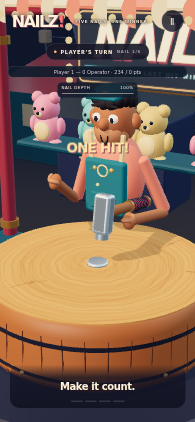
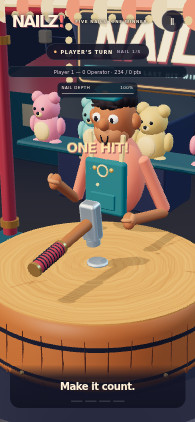
Face hammer handle toward human players during their turns

Changed region(s): [[0.1231, 0.4313, 0.7692, 0.6777], [0.3077, 0.5237, 0.8615, 0.7393]]

diff --git a/tests/hammer.test.ts b/tests/hammer.test.ts
@@ -12,25 +12,27 @@ test('the end of the hammer head contacts the nail with a transverse handle', ()
  const handle = model.root.getObjectByName('handle') as THREE.Mesh;
  face.geometry.computeBoundingBox();
  const faceEnd = new THREE.Vector3(0, face.geometry.boundingBox!.min.y, 0);
- for(const actor of ['p1', 'p2'] as const) for(const depth of [0, .4, .91]) {
+ for(const actor of ['p1', 'p2'] as const) for(const isHuman of [true,false]) for(const depth of [0, .4, .91]) {
   const contact = new THREE.Vector3(.08, 1.742 - depth, -.025);
   const motion = hammerMotion({...new Duel(11).snapshot, actor, phase:'SWING', elapsed:DUEL_TIMING.contact});
-  poseHammer(model.root, contact, motion.lift, motion.angle); model.root.updateMatrixWorld(true);
+  poseHammer(model.root, contact, motion.lift, motion.angle, isHuman); model.root.updateMatrixWorld(true);
   // Geometry vertices use Float32 storage, unlike the double-precision pose math.
   assert.ok(face.localToWorld(faceEnd.clone()).distanceTo(contact) < 1e-7, 'actual mesh end must land on the sampled point');
   const down = new THREE.Vector3(0,-1,0).transformDirection(face.matrixWorld);
   assert.ok(down.distanceTo(new THREE.Vector3(0,-1,0)) < 1e-10, 'striking end must face down');
   const handleAxis = new THREE.Vector3(0,1,0).transformDirection(handle.matrixWorld);
   assert.ok(Math.abs(handleAxis.dot(down)) < 1e-10, 'handle must lie across the head, never point into the nail');
-  assert.ok(handleAxis.z < -.99, 'handle points back toward the wielder');
+  assert.ok(isHuman ? handleAxis.z > .99 : handleAxis.z < -.99, 'handle points toward the human/front or operator/back, independent of player number');
   const handAxis = new THREE.Vector3(0,1,0).applyQuaternion(HAMMER_GRIP_ROTATION).applyQuaternion(model.root.quaternion);
   assert.ok(handAxis.distanceTo(handleAxis) < 1e-10, 'gripping hand follows the handle axis');
   assert.ok(model.root.localToWorld(HAMMER_GRIP.clone()).distanceTo(contact) > .7);
  }
- for(let i=0; i<=100; i++) {
-  const motion = hammerMotion({...new Duel(11).snapshot, phase:'SWING', elapsed:DUEL_TIMING.contact*i/100});
-  poseHammer(model.root, new THREE.Vector3(0,1,0), motion.lift, motion.angle); model.root.updateMatrixWorld(true);
+ for(const isHuman of [true,false]) for(const phase of ['READY_TO_SWING','SWING','IMPACT_RESOLUTION'] as const) for(let i=0; i<=100; i++) {
+  const motion = hammerMotion({...new Duel(11).snapshot, phase, elapsed:(phase==='SWING'?DUEL_TIMING.contact:.5)*i/100});
+  poseHammer(model.root, new THREE.Vector3(0,1,0), motion.lift, motion.angle, isHuman); model.root.updateMatrixWorld(true);
   assert.ok(face.localToWorld(faceEnd.clone()).y >= 1-1e-7, 'backswing must keep the face above contact');
+  const handleAxis = new THREE.Vector3(0,1,0).transformDirection(handle.matrixWorld);
+  assert.ok(isHuman ? handleAxis.z > 0 : handleAxis.z < 0, `${phase}: handle keeps facing the active wielder throughout the swing`);
  }
  model.dispose(); material.dispose();
 });

diff --git a/src/dev/animationFixtures.ts b/src/dev/animationFixtures.ts
@@ -1,6 +1,6 @@
 import {Duel,type DuelSnapshot} from '../game/duel.ts';
 import {applyStrike,createNail,resolveStrike} from '../game/strike.ts';
-export const ANIMATION_CASES=['Idle','Setup','Aim','Ready','Swing','Contact','Human contact','Normal rebound','Glancing rebound','Straighten','Near flush','One hit','Losing','Confident','Host celebration'] as const;
+export const ANIMATION_CASES=['Idle','Setup','Aim','Ready','Swing','Contact','Human ready','Human swing','Human contact','Human rebound','Local P2 contact','Normal rebound','Glancing rebound','Straighten','Near flush','One hit','Losing','Confident','Host celebration'] as const;
 export function animationFixture(name:string):DuelSnapshot{
  const base=new Duel(12,{firstStarter:'p2'}).snapshot;
  const fresh=createNail();
@@ -13,7 +13,8 @@ export function animationFixture(name:string):DuelSnapshot{
  if(name==='Setup')return {...base,phase:'NAIL_SETUP',elapsed:.2,isHuman:true};
  if(name==='Aim')return {...base,phase:'TARGET_Y',elapsed:.35};
  if(name==='Ready')return {...common,phase:'READY_TO_SWING',nail:before,elapsed:.4,appliedActionId:0};
- if(name==='Human contact')return {...common,phase:'SWING',actor:'p1',isHuman:true,nail:before,elapsed:.24,appliedActionId:0};
+ if(name.startsWith('Human '))return {...common,phase:name==='Human ready'?'READY_TO_SWING':name==='Human rebound'?'IMPACT_RESOLUTION':'SWING',actor:'p1',isHuman:true,pending:{...hit,actor:'p1'},nail:name==='Human rebound'?after:before,elapsed:name==='Human ready'?.4:name==='Human swing'?.1:name==='Human rebound'?.12:.24,appliedActionId:name==='Human rebound'?1:0};
+ if(name==='Local P2 contact')return {...common,mode:'pass-and-play',phase:'SWING',actor:'p2',isHuman:true,nail:before,elapsed:.24,appliedActionId:0};
  if(name==='Swing'||name==='Contact')return {...common,phase:'SWING',nail:before,elapsed:name==='Swing'?.1:.24,appliedActionId:0};
  if(name==='Straighten')return {...common,phase:'NAIL_STRAIGHTEN',elapsed:.2};
  if(name==='Losing')return {...common,phase:'MATCH_RESULT',winner:'p1'};

diff --git a/src/scene/hammer.ts b/src/scene/hammer.ts
@@ -33,8 +33,10 @@ export function createHammer(materials: Record<'metal'|'wood'|'grip'|'trim'|'bra
 }
 
 /** Anchor the actual striking face, including its rotated offset, to the sampled contact. */
-export function poseHammer(root: THREE.Object3D, contact: THREE.Vector3, lift: number, angle: number) {
- root.rotation.set(angle, 0, 0);
- root.position.copy(contact).add(new THREE.Vector3(0, lift, -.35 * lift))
+export function poseHammer(root: THREE.Object3D, contact: THREE.Vector3, lift: number, angle: number, isHuman: boolean) {
+ // Human players stand on the camera/front (+Z) side, opposite the operator.
+ // Yaw the complete swing so the handle and backswing both face the active wielder.
+ root.rotation.set(angle, isHuman ? Math.PI : 0, 0, 'YXZ');
+ root.position.copy(contact).add(new THREE.Vector3(0, lift, (isHuman ? 1 : -1) * .35 * lift))
   .sub(HAMMER_FACE.clone().applyQuaternion(root.quaternion));
 }

diff --git a/src/scene/createScene.ts b/src/scene/createScene.ts
@@ -177,7 +177,7 @@ export function createScene(canvas: HTMLCanvasElement, textures = new Map<string
       const point = nailLocalToWorld(offset.x, offset.y, headHeight);
       const {lift,angle}=hammerMotion(snapshot);
       if(phase==='SWING')rememberedDepth=snapshot.nail.depth;
-      poseHammer(hammer, point, lift, angle);
+      poseHammer(hammer, point, lift, angle, snapshot.isHuman);
     }
     if (!snapshot.isHuman && phase === 'TARGET_Y') {
       marker.visible = true;

diff --git a/docs/AI-NAILZ-HANDOFF.md b/docs/AI-NAILZ-HANDOFF.md
@@ -1,7 +1,7 @@
 # Nailz! handoff
 
 ## Checkpoint
-- **E5 implemented. CI repair `0292f9d` passed all seven hosted production scenarios. Hammer-orientation follow-up adds a mesh-contact regression (41 unit tests total) and 15 passing pose checks; inspect its latest hosted CI before E6.**
+- **E5 implemented. Hammer head correction `4d1812b` passed all seven hosted production scenarios. Player-facing handle follow-up retains 41 unit tests and expands to 19 passing pose checks; inspect its latest hosted CI before E6.**
 - Repository: https://github.com/khoix/Nailz, branch `codex/nailz-arcade-build`. E5 starts from E4 commit `188c765e11fe496f386be91d4511dbc4914e9282`. PR #2 was merged externally before E4; continue the same feature branch.
 - Complete five-nail matches in Solo — vs. Operator and 2 Players — Pass & Play. Random first starter, alternating nail starters, all five nails even after an early clinch, round/match results, scoring, rematch, and mode selection outside matches.
 - Local rematches swap the first starter. Both participants use E2's existing Y/X/focus/swipe pipeline and identical timing. The operator has no competitive local turns. Carnival scenery and hero props are now authored; the operator now has an articulated rig, grip following, and snapshot-driven reactions.
@@ -66,7 +66,7 @@ CI follow-up separates the seven production scenarios into independent jobs, wit
 - All seven local production scenarios passed (loading, controls, two local matches, and all four solo difficulties). Outcomes and exact validation scope are recorded in `docs/validation/e5/production-e2e.json` at save time. Do not infer completion from old E3/E4 results. Physical-device comfort/GPU cost and continuous slow-motion clipping review remain untested; see the validation notes.
 
 ## E6 starting point
-Hammer-orientation correction: `src/scene/hammer.ts` owns the procedural hammer, its head-end contact offset, grip offset, and pose transform. At impact the head end faces down and the handle extends along -Z, toward the wielder. Swing rotation is around X; face anchoring includes the rotated mesh offset. Operator grip position and rotation follow the transverse handle. Radius, simulation contact time, scoring, and inputs are unchanged. See `docs/validation/hammer-orientation/README.md` for verification and captures. Do not restore the old upright-handle/center-of-head striking geometry.
+Hammer-orientation correction: `src/scene/hammer.ts` owns the procedural hammer, its head-end contact offset, grip offset, and pose transform. At impact the head end faces down. Human turns (including local Player 2) yaw the hammer toward the front/player (+Z); computer turns point toward the operator (-Z). The whole wind-up/contact/rebound uses `snapshot.isHuman`, not actor number. Swing pitch is around local X; face anchoring includes the rotated mesh offset. Operator grip position and rotation follow the transverse handle. Radius, simulation contact time, scoring, and inputs are unchanged. See `docs/validation/hammer-orientation/README.md` for verification and captures. Do not restore the old upright-handle/center-of-head striking geometry.
 
 After verifying E5 regression and new hosted CI, read E6 in the build plan: impact effects, sound, and supported haptics. Reuse snapshot-derived poses, the shared contact event, current prop pivots, operator grip, and loader. Do not introduce animation-owned strike resolution. User supplies music later; none was generated or substituted. Final Tap to Play/audio-intent presentation and menus remain E7. Do not begin E6 automatically.
 

diff --git a/docs/validation/hammer-orientation/README.md b/docs/validation/hammer-orientation/README.md
@@ -1,11 +1,11 @@
 # Hammer orientation correction
 
-The old mesh struck with a disk under the middle of the head while the handle pointed upward. The corrected head has its striking face on the downward end, perpendicular to the handle. The handle extends back toward the wielder; swing rotation and operator wrist orientation follow this new geometry. The actual rotated face offset anchors to the sampled nail contact. Gameplay timing, contact radius, strike resolution, and scoring are unchanged.
+The old mesh struck with a disk under the middle of the head while the handle pointed upward. The corrected head has its striking face on the downward end, perpendicular to the handle. The handle points toward the front/player (+Z) for human turns, including both pass-and-play participants, and toward the operator (-Z) for computer turns; swing rotation and operator wrist orientation follow this new geometry. The actual rotated face offset anchors to the sampled nail contact. Gameplay timing, contact radius, strike resolution, and scoring are unchanged.
 
 Verification on software Chromium 153.0.8010.0, DPR 0.5:
-- `npm run check`: typecheck, production build, and all 41 unit tests passed. The new regression samples the actual mesh end at different nail depths for both actors, verifies a downward face and transverse handle, checks grip orientation, and checks the pre-contact sweep.
-- `npm run test:operator`: all 15 pose cases passed, including human and operator contact, wrist alignment, pause, and reset. Portrait and landscape captures were reviewed.
+- `npm run check`: typecheck, production build, and all 41 unit tests passed. The new regression samples the actual mesh end at different nail depths for both actors, verifies a downward face and transverse handle, checks grip orientation, and checks handle direction throughout wind-up, swing, and rebound for both controller types.
+- `npm run test:operator`: all 19 pose cases passed, including human wind-up/swing/contact/rebound, local Player 2 contact, operator contact, wrist alignment, pause, and reset. Portrait and landscape captures were reviewed.
 - `npm run test:e2e -- solo-controls`: production UI journey passed with perfect/weak strikes, operator alternation, cancellation, pause/resume, rotation, and no browser/runtime/network errors.
 - Full seven-scenario hosted regression is enforced by GitHub Actions on the saved commit; inspect that run for its final result. These browser checks do not claim physical-phone certification.
 
-`contact.png` shows the exact contact fixture. `swing-ready.png` and `perfect-impact.png` show the real production UI before the swipe and during rebound.
+`contact.png` shows operator contact; `human-contact.png` shows the player-facing handle at contact. `swing-ready.png` and `perfect-impact.png` show the real production UI before the swipe and during rebound.

diff --git a/docs/ASSET-MANIFEST.md b/docs/ASSET-MANIFEST.md
@@ -25,7 +25,7 @@ Geometry/material/shadow/environment resources are owned and disposed by the sce
 
 High (default): sRGB color maps/output, ACES exposure .95, one 1024² shadow map, warm key 3.2, cool hemisphere 1.1, cyan rim 2.2, PMREM intensity .45, DPR capped at 1.75. No fullscreen bloom or postprocessing. Low (`?quality=low`, or scene API): DPR capped at 1, dynamic shadows and distant scenery disabled; hero geometry and aiming coordinates unchanged. A later settings UI can call `setQuality()`.
 
-Static scenery merges by material and bulbs instance together. Prize motion honors reduced motion and paused simulation time. The fixed top-down targeting camera and nail-local radius .115 remain unchanged; the booth camera now frames the marquee and hero together. The hammer's contact face retains its original radius and gameplay timing. Its mesh-end offset is transformed with the swing so the downward head end reaches the sampled contact while the handle extends back toward the wielder.
+Static scenery merges by material and bulbs instance together. Prize motion honors reduced motion and paused simulation time. The fixed top-down targeting camera and nail-local radius .115 remain unchanged; the booth camera now frames the marquee and hero together. The hammer's contact face retains its original radius and gameplay timing. Its mesh-end offset is transformed with the swing so the downward head end reaches the sampled contact while the handle faces the active wielder: front/player for human turns and back/operator for computer turns.
 
 Measured development captures and CPU submission profile are in `docs/validation/e4/`. CPU timing in software-rendered Chromium is not a phone GPU/frame-rate claim. E8 must measure real iPhone/Android performance and tune tiers.
 
